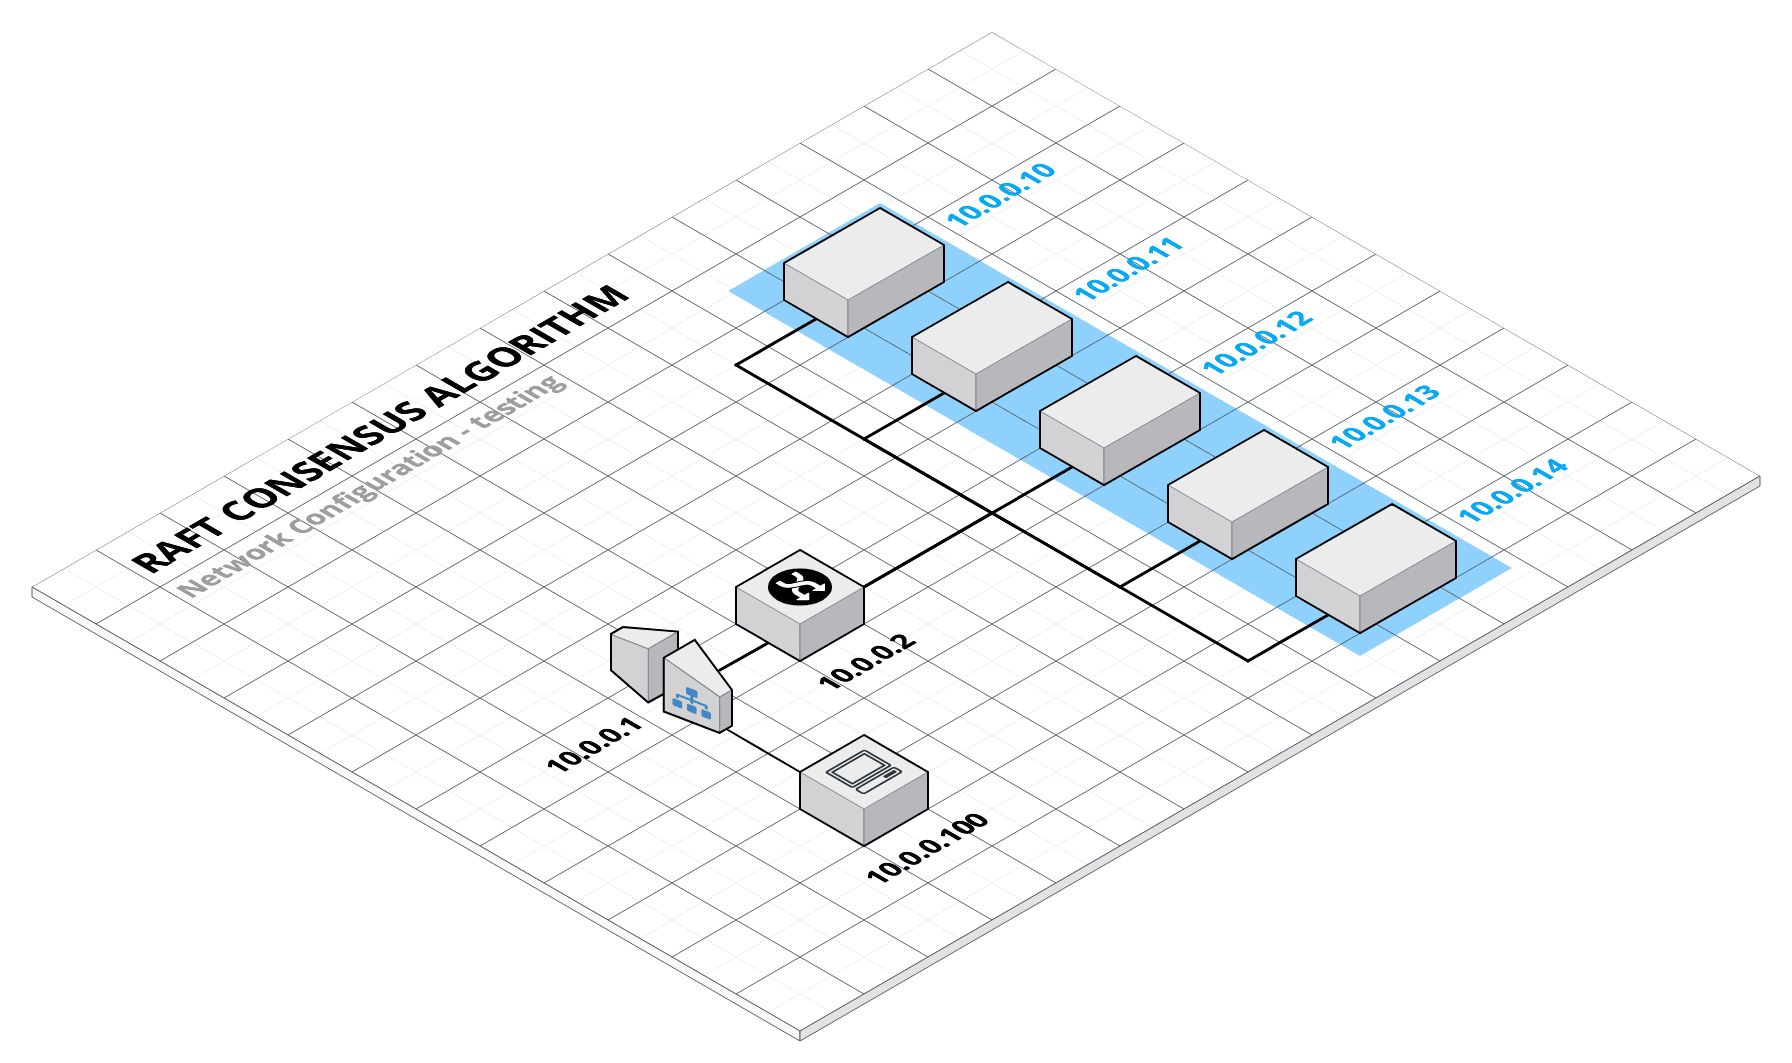
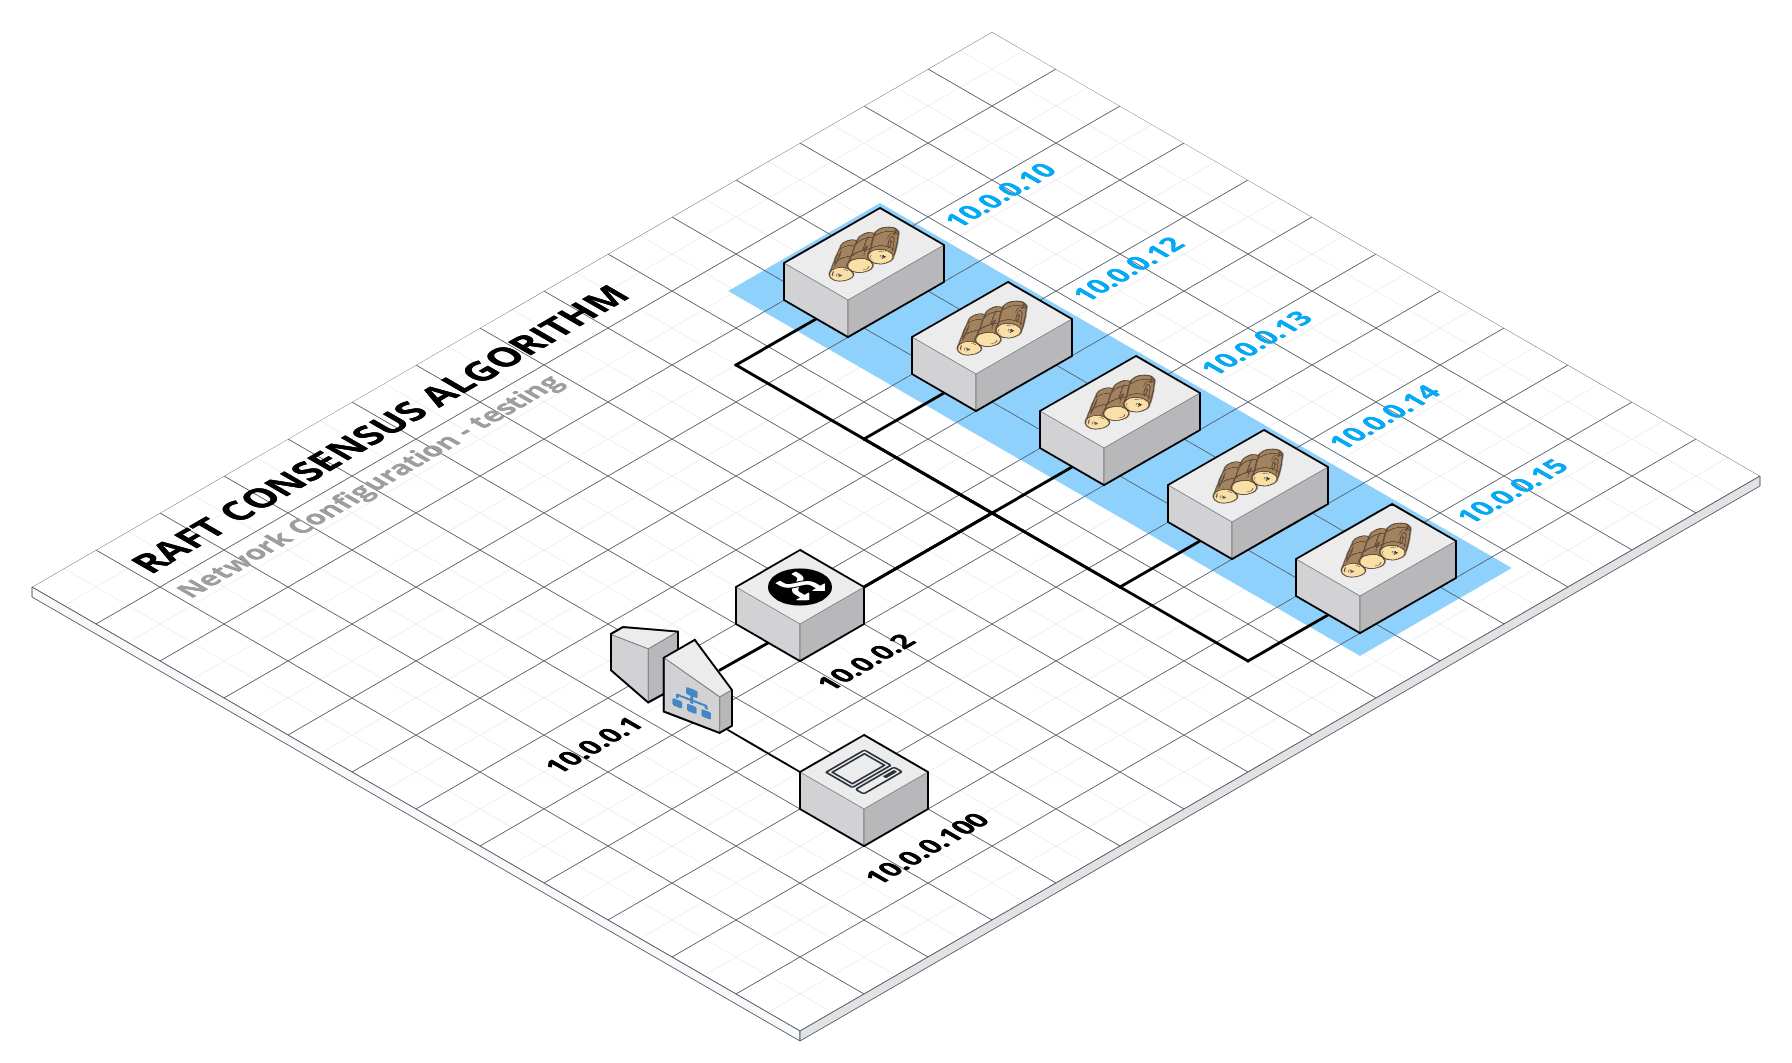
Topology update 🗺

diff --git a/README.md b/README.md
@@ -193,6 +193,21 @@ Network failure is simulated using [netem](https://wiki.linuxfoundation.org/netw
 
 Another useful feature of netem is the capability to control the bandwidth using the `rate` feature. Another options could have been playing with `iptables`.
 
+The following table clarifies VM's role and IP:
+
+| Name   | IP         |
+|--------|------------|
+| Client | 10.0.0.100 |
+| Router | 10.0.0.1   |
+| Switch | 10.0.0.2   |
+| Node 1 | 10.0.0.11  |
+| Node 2 | 10.0.0.12  |
+| Node 3 | 10.0.0.13  |
+| Node 4 | 10.0.0.14  |
+| Node 5 | 10.0.0.15  |
+
+Each node is identical to the other, since every one of them is configured by the same bash script, `vagrant/node.sh`.
+
 <p align="right">(<a href="#top">back to top</a>)</p>
 
 <!-- CONTRIBUTING -->
@@ -237,7 +252,7 @@ Chiara Magri - `chiara.magri[at]mail.polimi.it`
 ## Acknowledgments 🥸
 
 * [The Raft Consensus Algorithm](https://raft.github.io/)
-* [netem](https://wiki.linuxfoundation.org/networking/netem#delay_distribution)
+* [The Linux Foundations - netem](https://wiki.linuxfoundation.org/networking/netem#delay_distribution)
 * []()
 
 <p align="right">(<a href="#top">back to top</a>)</p>
